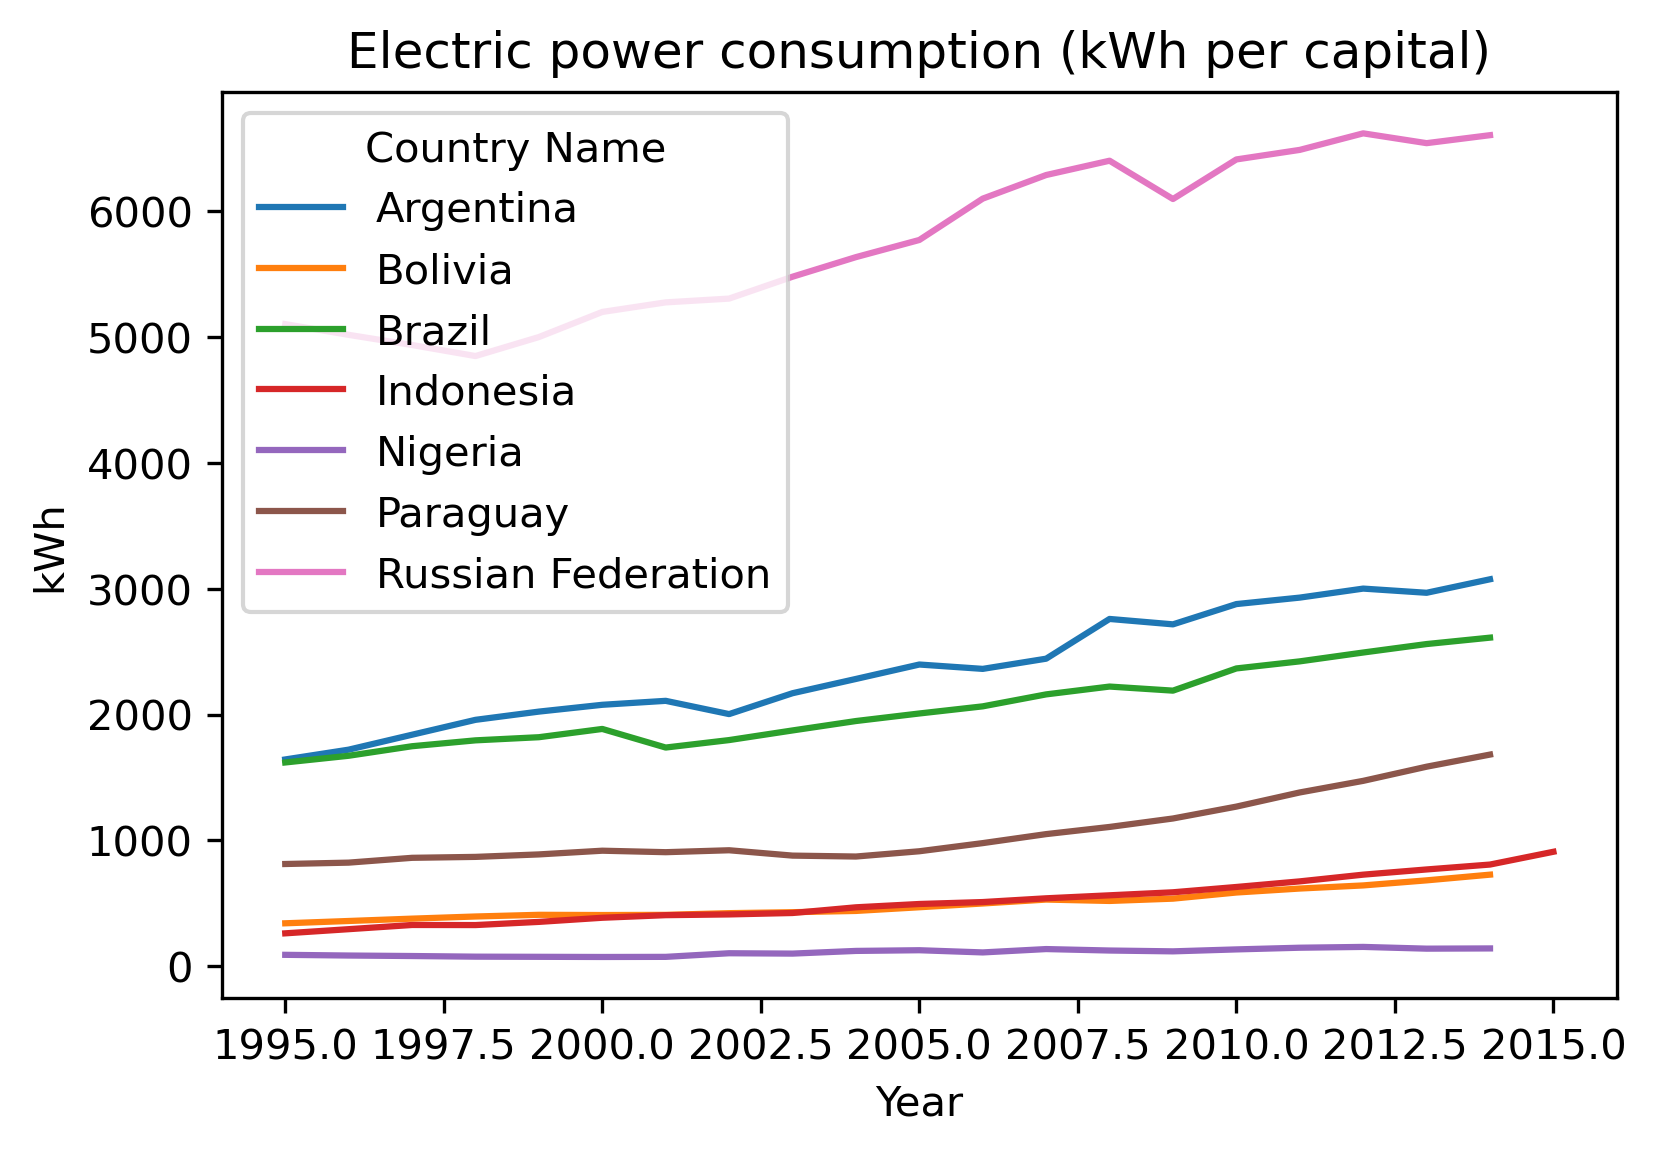
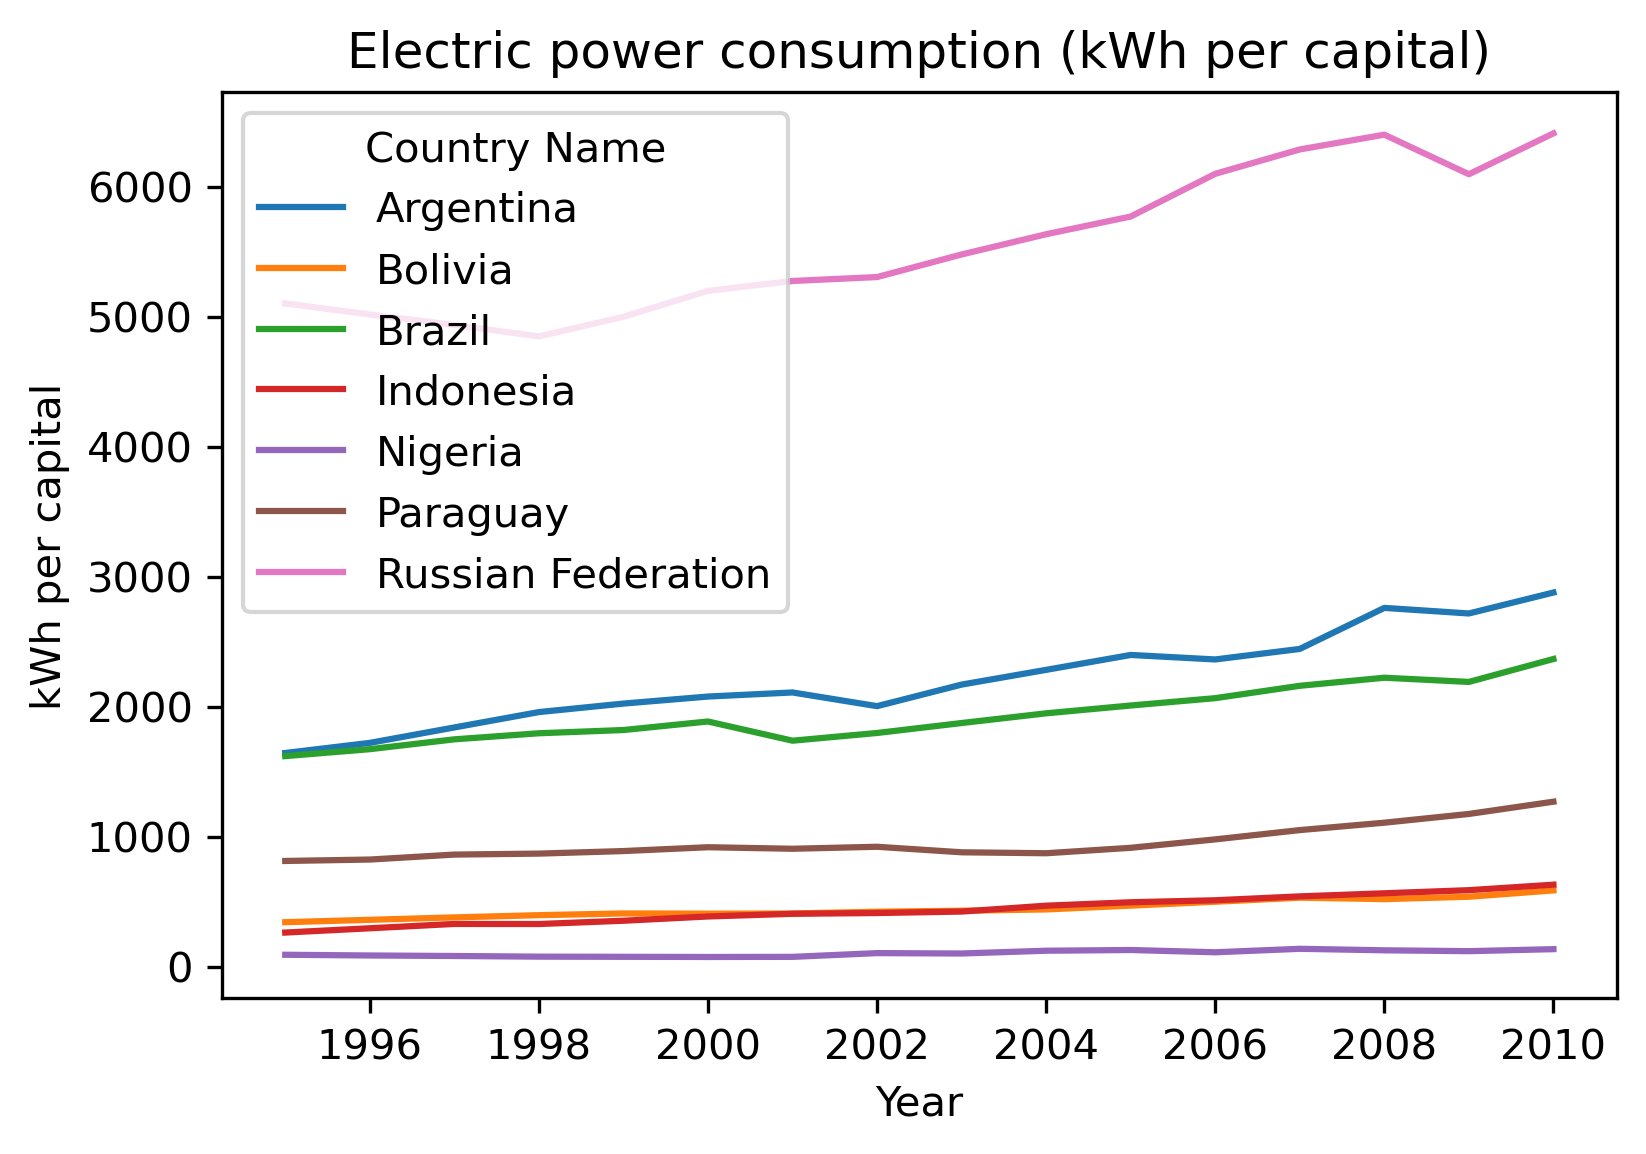
fix labels

diff --git a/assigment2.py b/assigment2.py
@@ -318,19 +318,19 @@ print_statics_summary("GDP (current US$)", gdp_data_yw)
 
 # plot charts bar chart for Forest area and CO2emissions
 plot_and_save_bar_chart(frst_lnd_data_cw, "Forest area (% of land area)",
-                        "countries", "% of land area", "forest.png")
+                        "country", "% of land area", "forest.png")
 plot_and_save_bar_chart(co2_data_cw, "CO2 emissions (kt)",
-                        "countries", "kt", "co2.png")
+                        "country", "kt", "co2.png")
 
 
 # plot line charts for Electric power consumption and Population
-plot_and_save_line_chart(ele_data_yw.loc[1995:2015, :],
+plot_and_save_line_chart(ele_data_yw.loc[1995:2010, :],
                          "Electric power consumption (kWh per capital)",
-                         "Year", "kWh", "electric.png")
+                         "Year", "kWh per capital", "electric.png")
 plot_and_save_line_chart(total_population_data_yw, "Population, total", "Year",
-                         "", "population.png")
-plot_and_save_line_chart(gdp_data_yw, "GDP (current US$)", "Year", "Trillion",
-                         "gdp.png")
+                         "Total", "population.png")
+plot_and_save_line_chart(gdp_data_yw, "GDP (current US$)", "Year",
+                         "Trillion US$", "gdp.png")
 
 # prepare heat map dictonary label with it's dataframe object
 dict_heat_map = {
